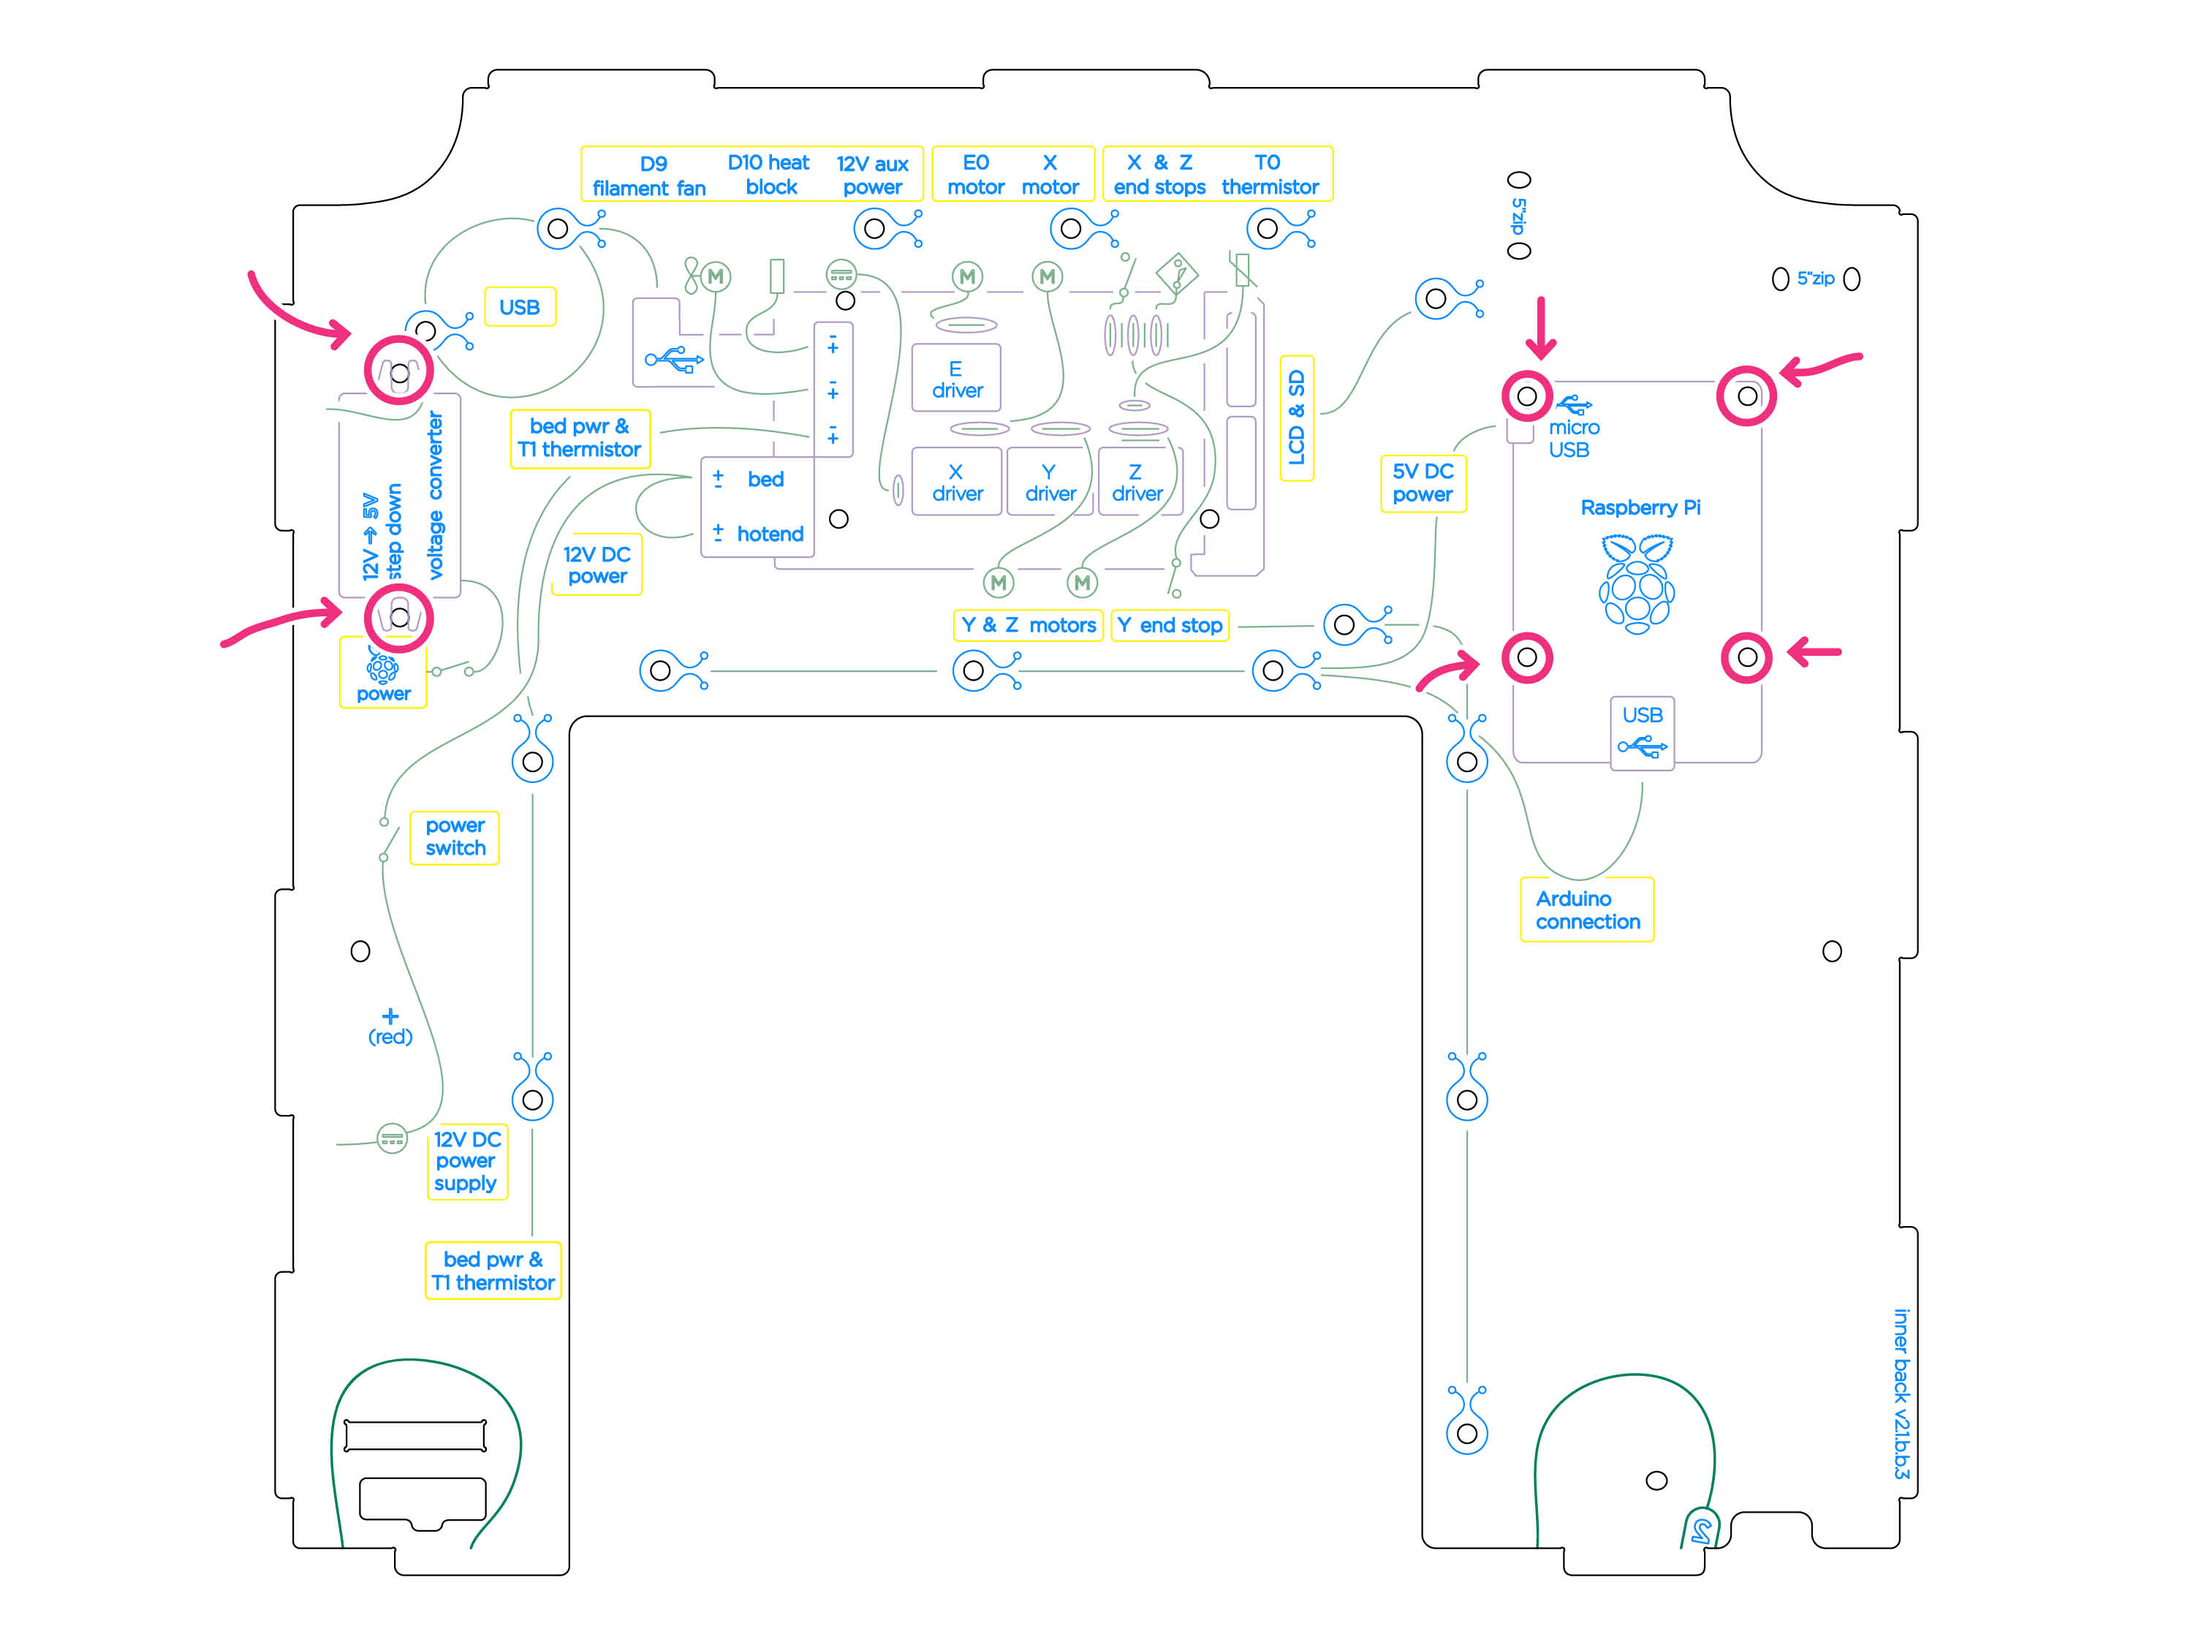
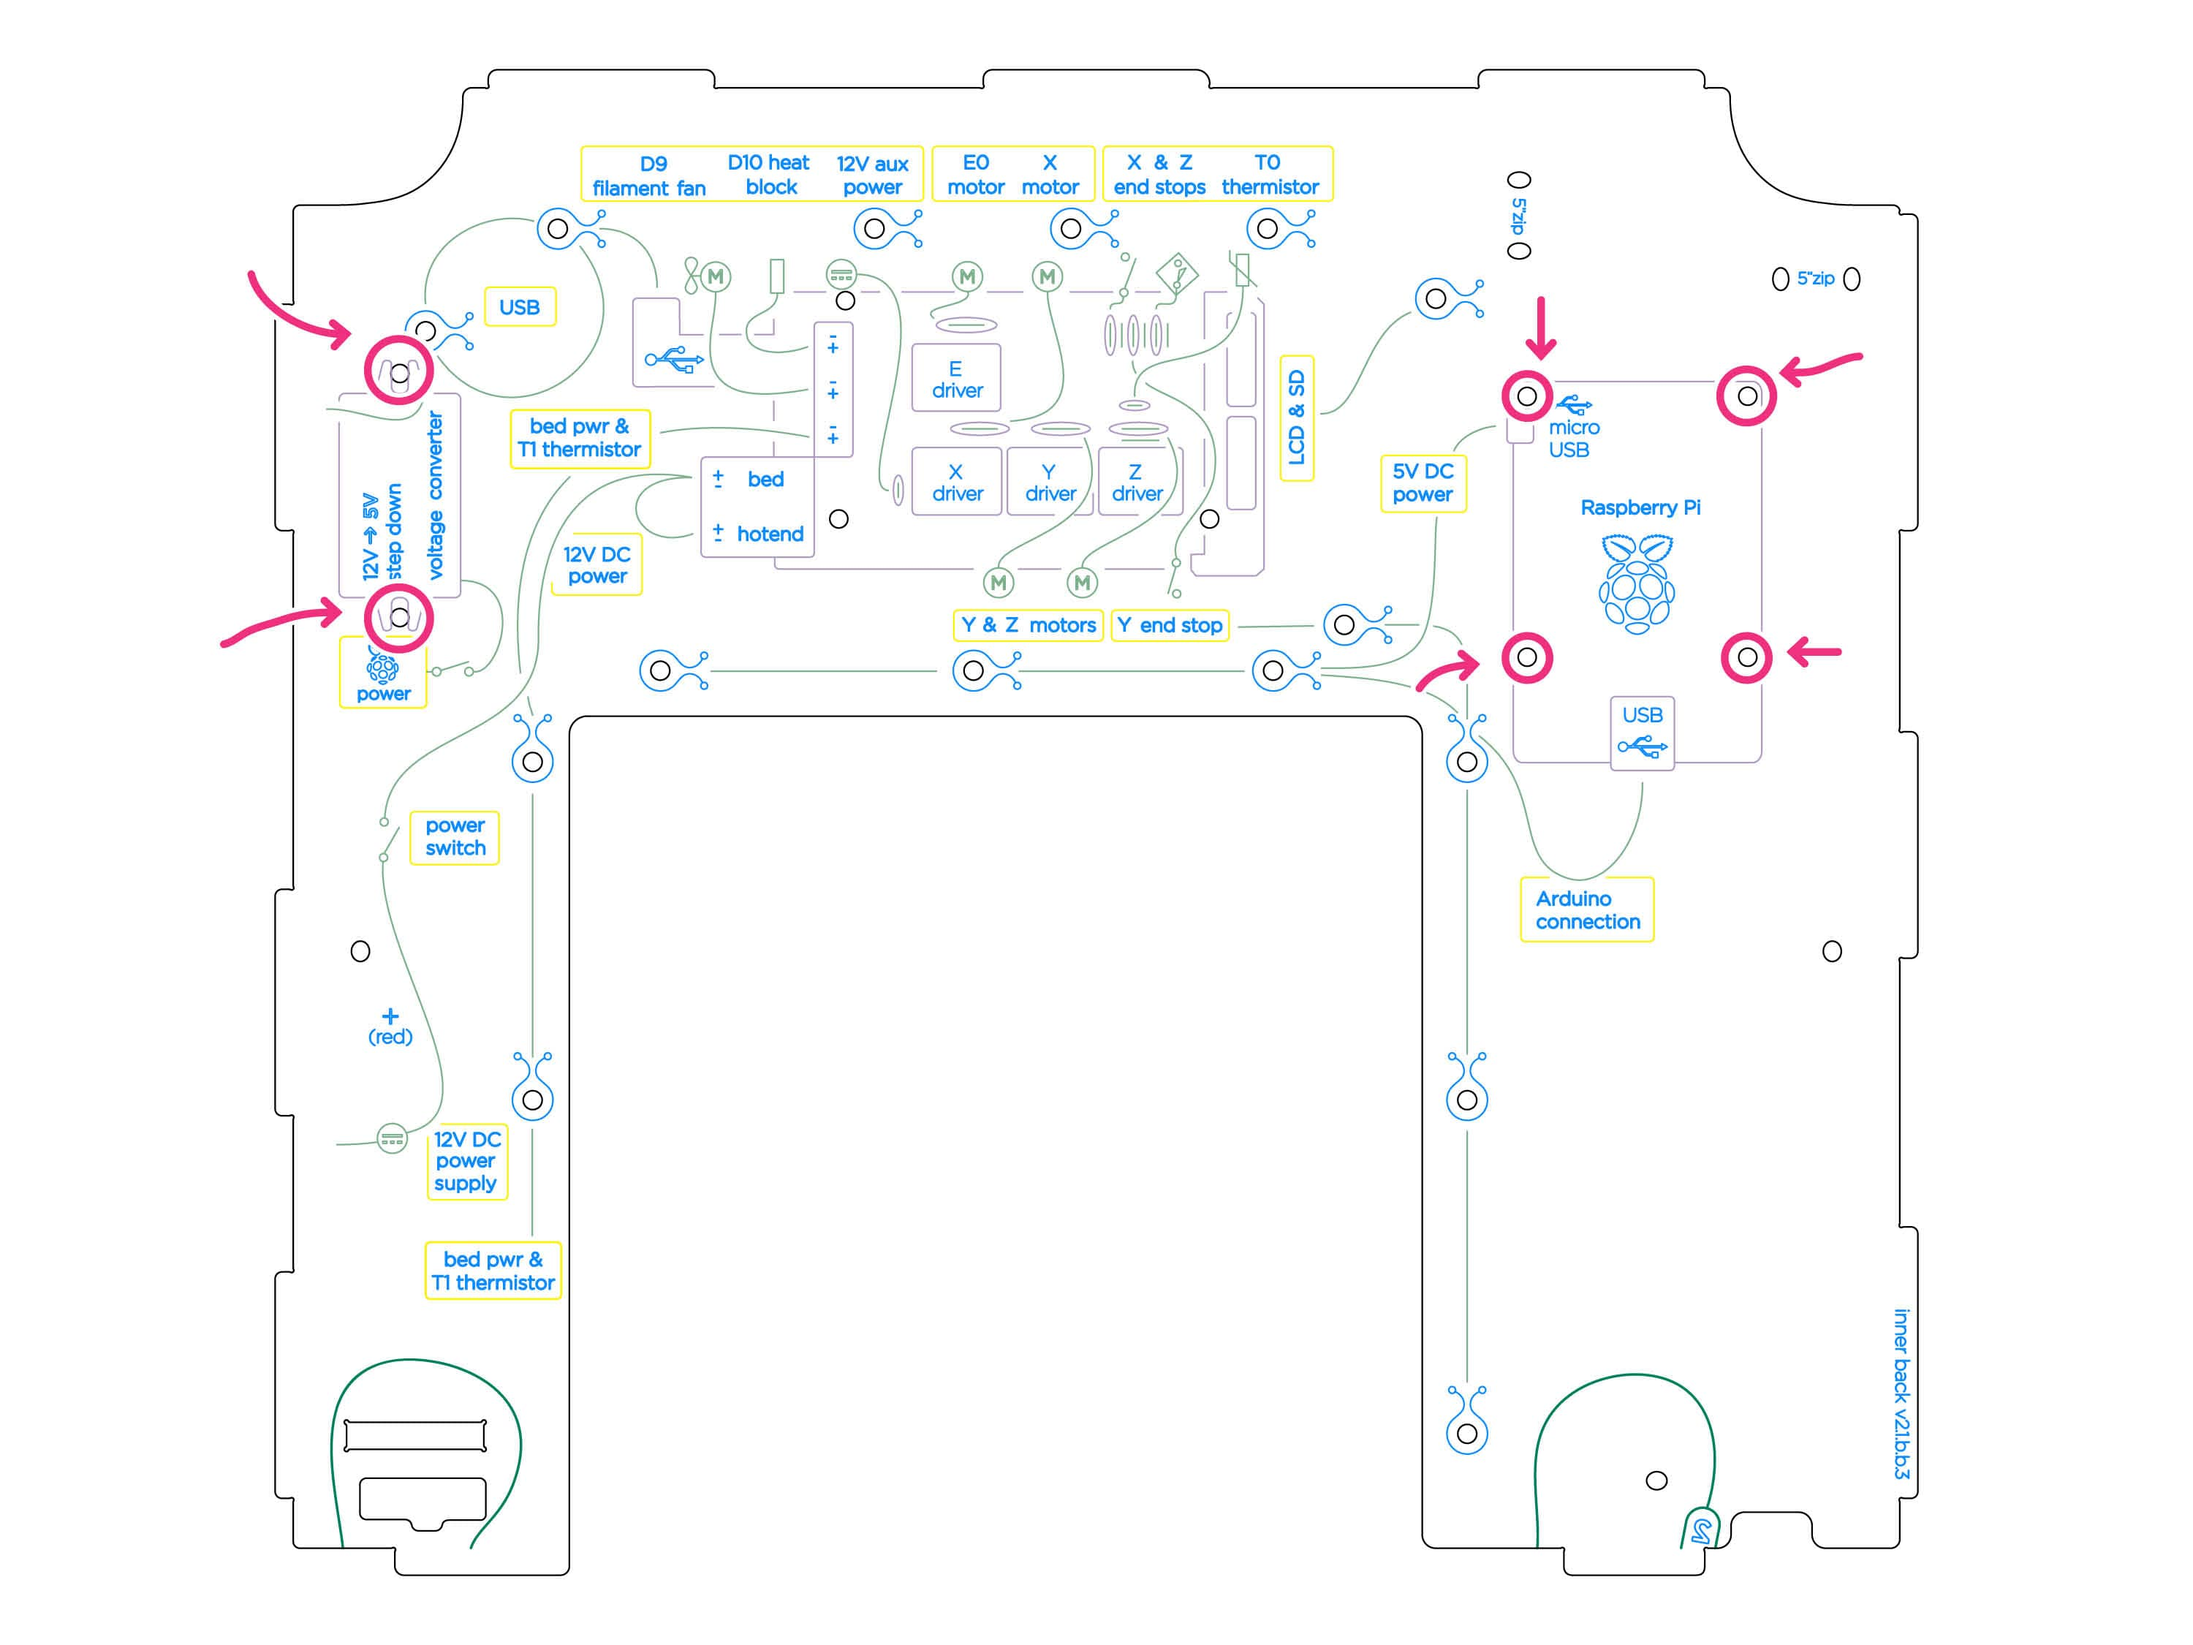
Optimize images

diff --git a/docs/OctoPrint/4_The_First_Boot.md b/docs/OctoPrint/4_The_First_Boot.md
@@ -2,7 +2,7 @@
 
 Put the micro sd card with OctoPi IMADE3D Edition installed into your Pi and power it up (the upper switch on your JellyBOX with a Raspbery logo).
 
-![pi-sd.png](/assets/pi-sd.png)
+![pi-sd.png](/assets/pi-sd.jpg)
 <div style="font-size:60%">_image courtesy: https://projects.raspberrypi.org_</div>
 
 The first boot may take up to 8 minutes, even though it often finishes in less than 4 minutes.
@@ -21,7 +21,7 @@ You can also set up a nicer URL that you can bookmark and remember, `octopi.loca
 
 Once you get to your OctoPi (be it via octopi.local or the IP address), you will are greated with a convenient _Setup Wizard_. It is highly recommended you read the Wizard carefully: it contains information important to your privacy and security.
 
-![2019-05-26_00-46-07.png](/assets/2019-05-26_00-46-07.png)
+![2019-05-26_00-46-07.png](/assets/2019-05-26_00-46-07.jpg)
 
 ### Admin Password
 
@@ -31,7 +31,7 @@ The first thing to set up is the Access Control.
 
 Use [https://xkpasswd.net/s/](https://xkpasswd.net/s/) if you need a secure password that is easy to remember. (Inspired by the famous [https://xkcd.com/936/](https://xkcd.com/936/)))
 
-![2019-05-26_00-46-53.png](/assets/2019-05-26_00-46-53.png)
+![2019-05-26_00-46-53.png](/assets/2019-05-26_00-46-53.jpg)
 
 ### Anonymous Tracking
 
@@ -49,7 +49,7 @@ This prevents your OctoPrint from wasting time and energy.
 
 If the `Test` fails, try to use another Host IP, as some providers (Comcast looking at you) block the `8.8.8.8` Google DNS server address. Try `1.1.1.1`, or `4.2.2.2` server (Level 3 DNS) which should fix the issue. If it still does not work, try another DNS server or any other public IP.
 
-![2019-05-26_00-49-14.png](/assets/2019-05-26_00-49-14.png)
+![2019-05-26_00-49-14.png](/assets/2019-05-26_00-49-14.jpg)
 
 ### Plugin Blacklist
 
@@ -57,7 +57,7 @@ If the `Test` fails, try to use another Host IP, as some providers (Comcast look
 
 Contrary to the intense name, this is not a list of bad plugins; rather just a list of plugins that are not compatible with your software.
 
-![2019-05-26_00-49-35.png](/assets/2019-05-26_00-49-35.png)
+![2019-05-26_00-49-35.png](/assets/2019-05-26_00-49-35.jpg)
 
 ### Done + Safety Warning + More Info
 
@@ -65,7 +65,7 @@ Contrary to the intense name, this is not a list of bad plugins; rather just a l
 
 Read. Maybe it's too early for you now, but once and if you find the software useful, remember it's open source and it could never exist without the support of regular folk.
 
-![2019-05-26_00-49-44.png](/assets/2019-05-26_00-49-44.png)
+![2019-05-26_00-49-44.png](/assets/2019-05-26_00-49-44.jpg)
 
 ---
 

diff --git a/docs/OctoPrint/2_Hardware.md b/docs/OctoPrint/2_Hardware.md
@@ -119,7 +119,7 @@ Here are two videos that shows nicely how heat inserts are inserted. You only ne
 
 Install the Pi using M3x12 sockethead screws (4) AND 'dogbone' acrylic spacers (4).
 
-![spacers.png](assets/spacers.png)
+![spacers.png](assets/spacers.jpg)
 
 !> The Pi needs to be on **spacers** or there's a higher chance or worse performance due to thermal throttling.
 
@@ -139,7 +139,7 @@ Use the rest of the M3x12 screws (2).
 
 Install the Pi using M3x16 sockethead screws (4), M3 locknuts (4) AND 'dogbone' acrylic spacers (4).
 
-![spacers.png](assets/spacers.png)
+![spacers.png](assets/spacers.jpg)
 
 !> The Pi needs to be on **spacers** or there's a higher chance or worse performance due to thermal throttling.
 
@@ -166,9 +166,9 @@ The process is the same as installing the power switch for the JellyBOX (hence t
 
 If you get confused, [remember your training](#understand-the-wiring) 😈.
 
-![wiring-annos.png](assets/wiring-annos.png)
+![wiring-annos.png](assets/wiring-annos.jpg)
 
-![wiring.png](assets/wiring.png)
+![wiring.png](assets/wiring.jpg)
 
 ## 4. Connect the Pi to the RAMPS Board
 

diff --git a/docs/OctoPrint/3_Configure_the_microSD_Card.md b/docs/OctoPrint/3_Configure_the_microSD_Card.md
@@ -7,9 +7,9 @@ Insert the microSD card into your computer and you should see a 'boot' SD card p
 
  Find `octopi-password.txt` file and open it with a text editor (Visual Studio Code, Atom, Sublime Text, Notepad ++). Replace the default `raspberry` password with **your own secure password**.
 
-![](/assets/Untitled-ab9ce31d-a5c1-4769-b9c8-c14e7aeb4fec.png)
+![](/assets/Untitled-ab9ce31d-a5c1-4769-b9c8-c14e7aeb4fec.jpg)
 
-![](/assets/Untitled-397e11d4-8b1b-4f2c-8d87-6f245be14bf5.png)
+![](/assets/Untitled-397e11d4-8b1b-4f2c-8d87-6f245be14bf5.jpg)
 
 - We recommend [https://xkpasswd.net/s/](https://xkpasswd.net/s/) if you need a secure password that is easy to remember. (Inspired by the famous [https://xkcd.com/936/](https://xkcd.com/936/))
 - Keep this password safe. It gives anyone complete control over the Raspberry Pi and a person with malicious intent could cause real damage (even fire).

diff --git a/docs/OctoPrint/6_advanced.md b/docs/OctoPrint/6_advanced.md
@@ -118,6 +118,6 @@ You can browse for plugins at [https://plugins.octoprint.org/plugins/](https://p
 
 There's a nice plugin manager in the settings. Use it :-)
 
-![2019-05-26_00-50-33.png](/assets/2019-05-26_00-50-33.png)
+![2019-05-26_00-50-33.png](/assets/2019-05-26_00-50-33.jpg)
 
 ![2019-05-26_00-51-12.png](/assets/2019-05-26_00-51-12.png)
